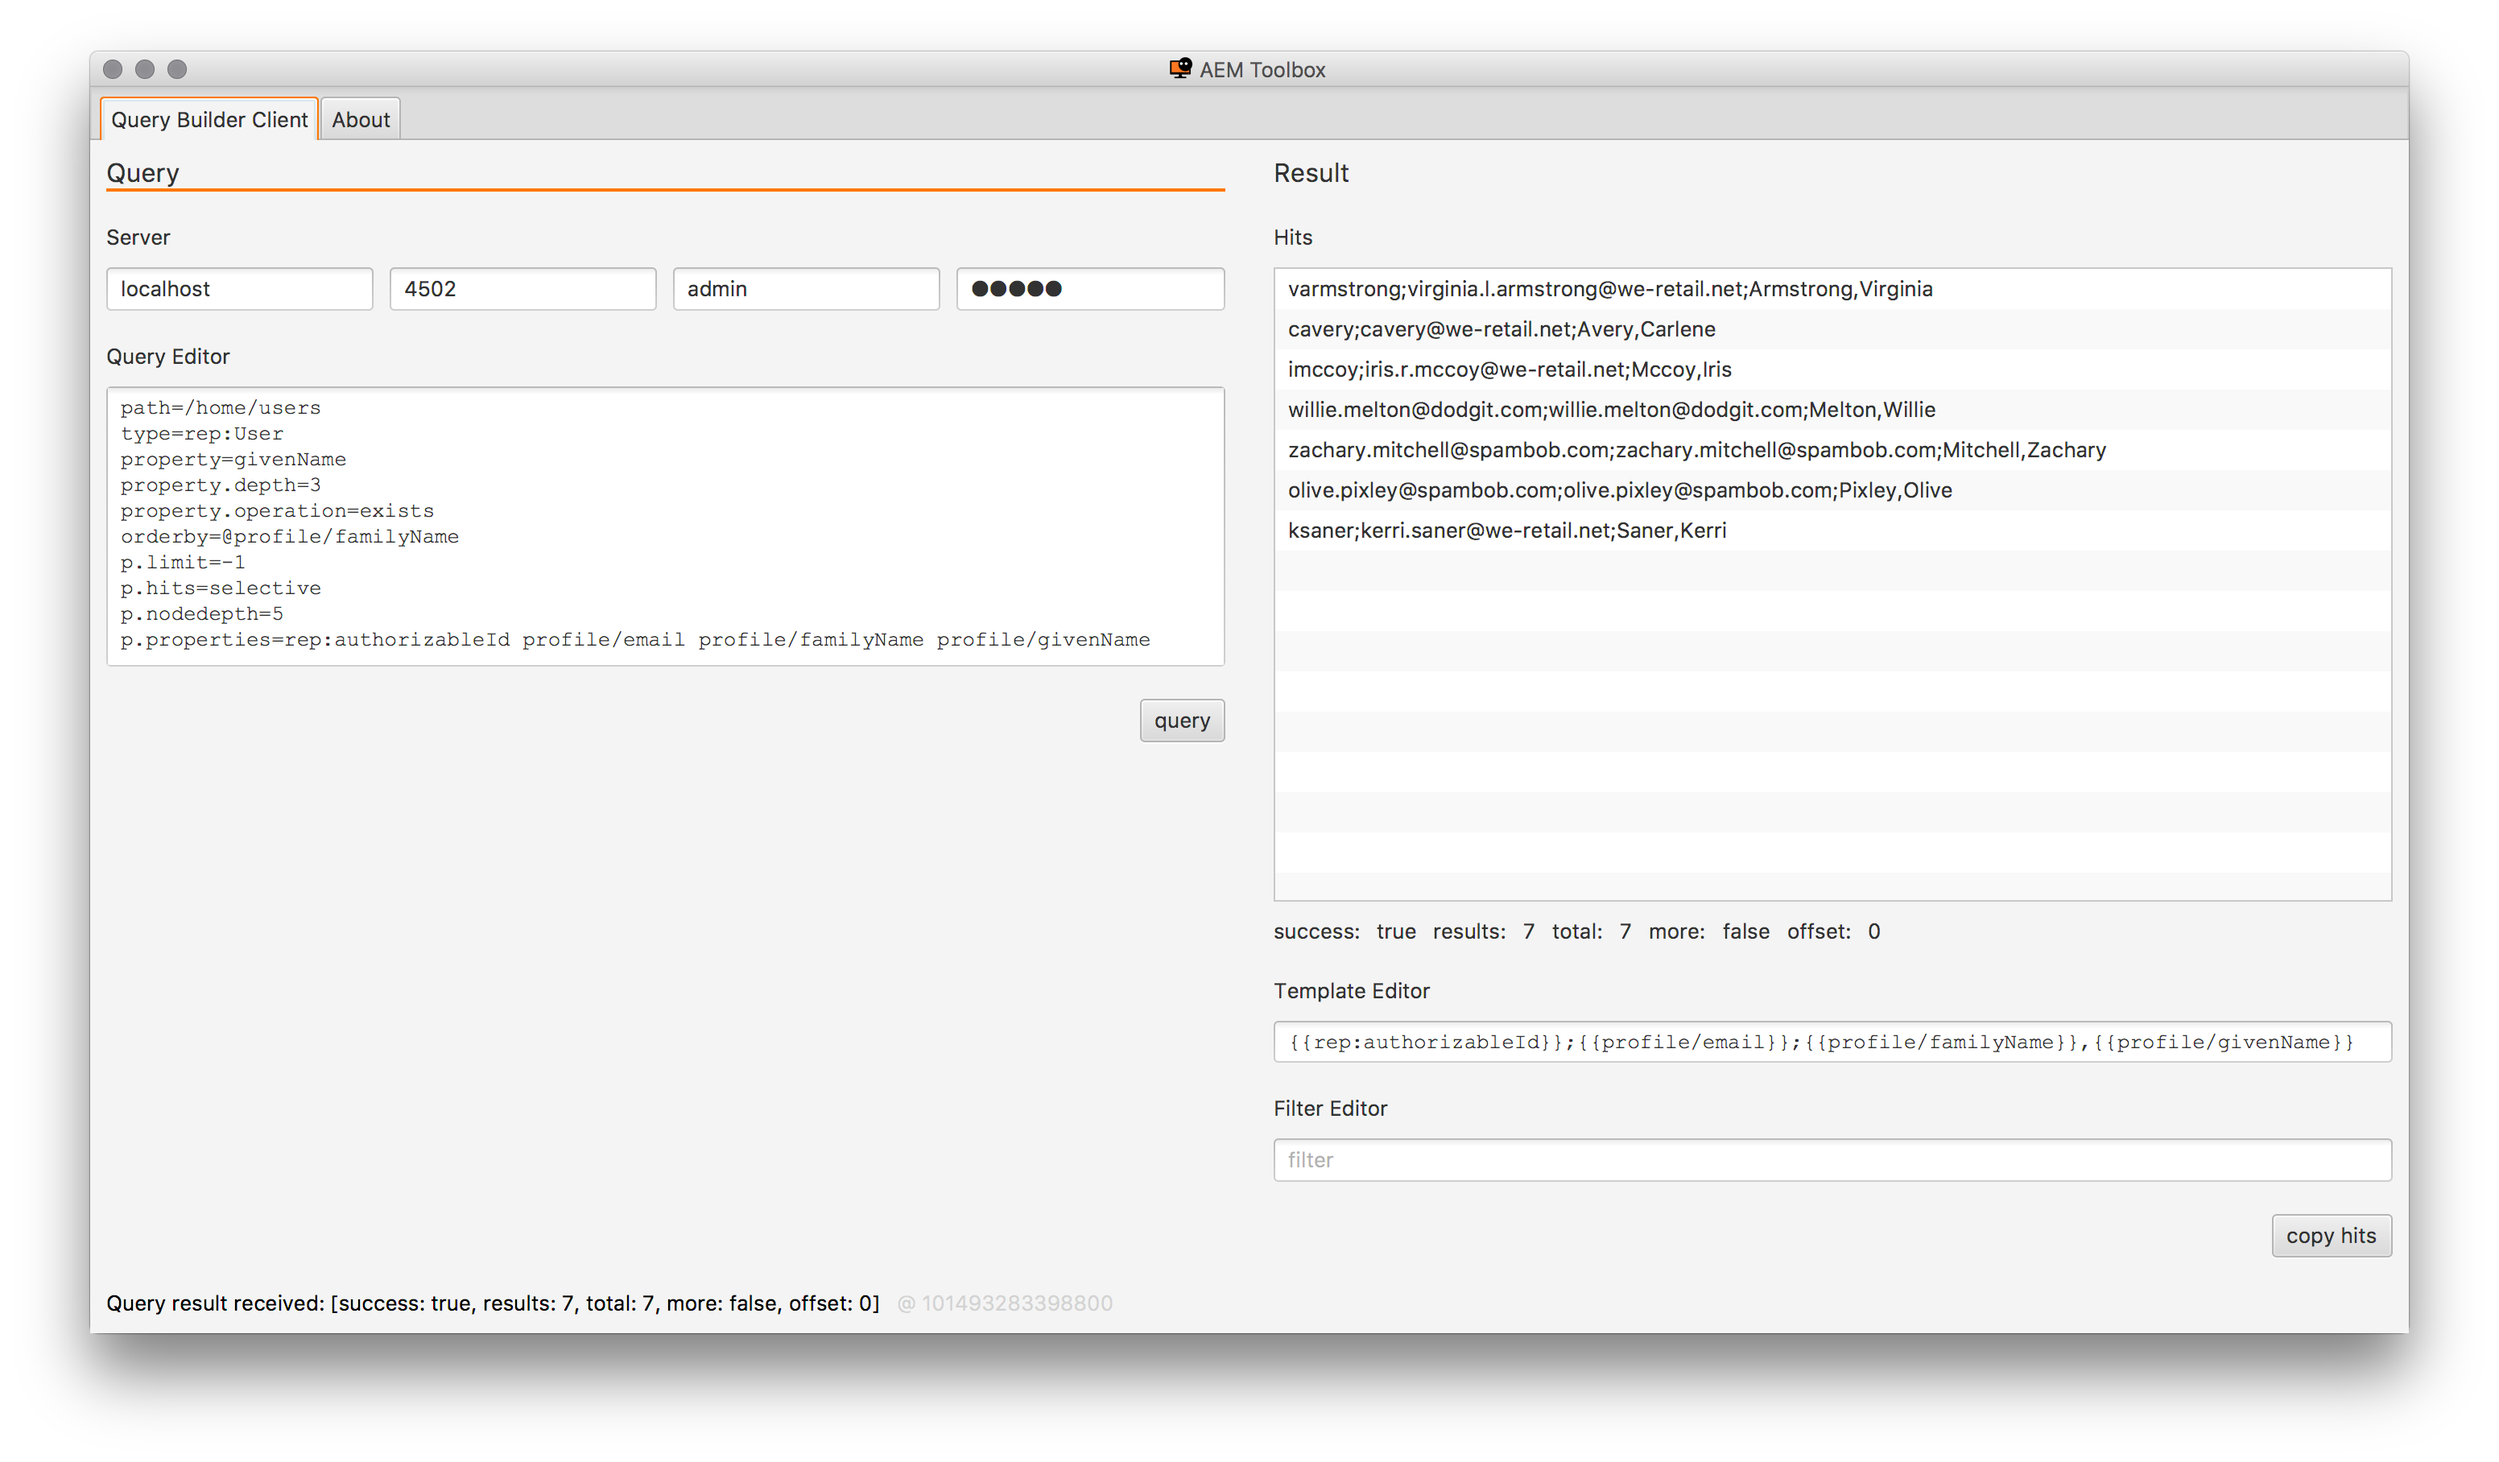
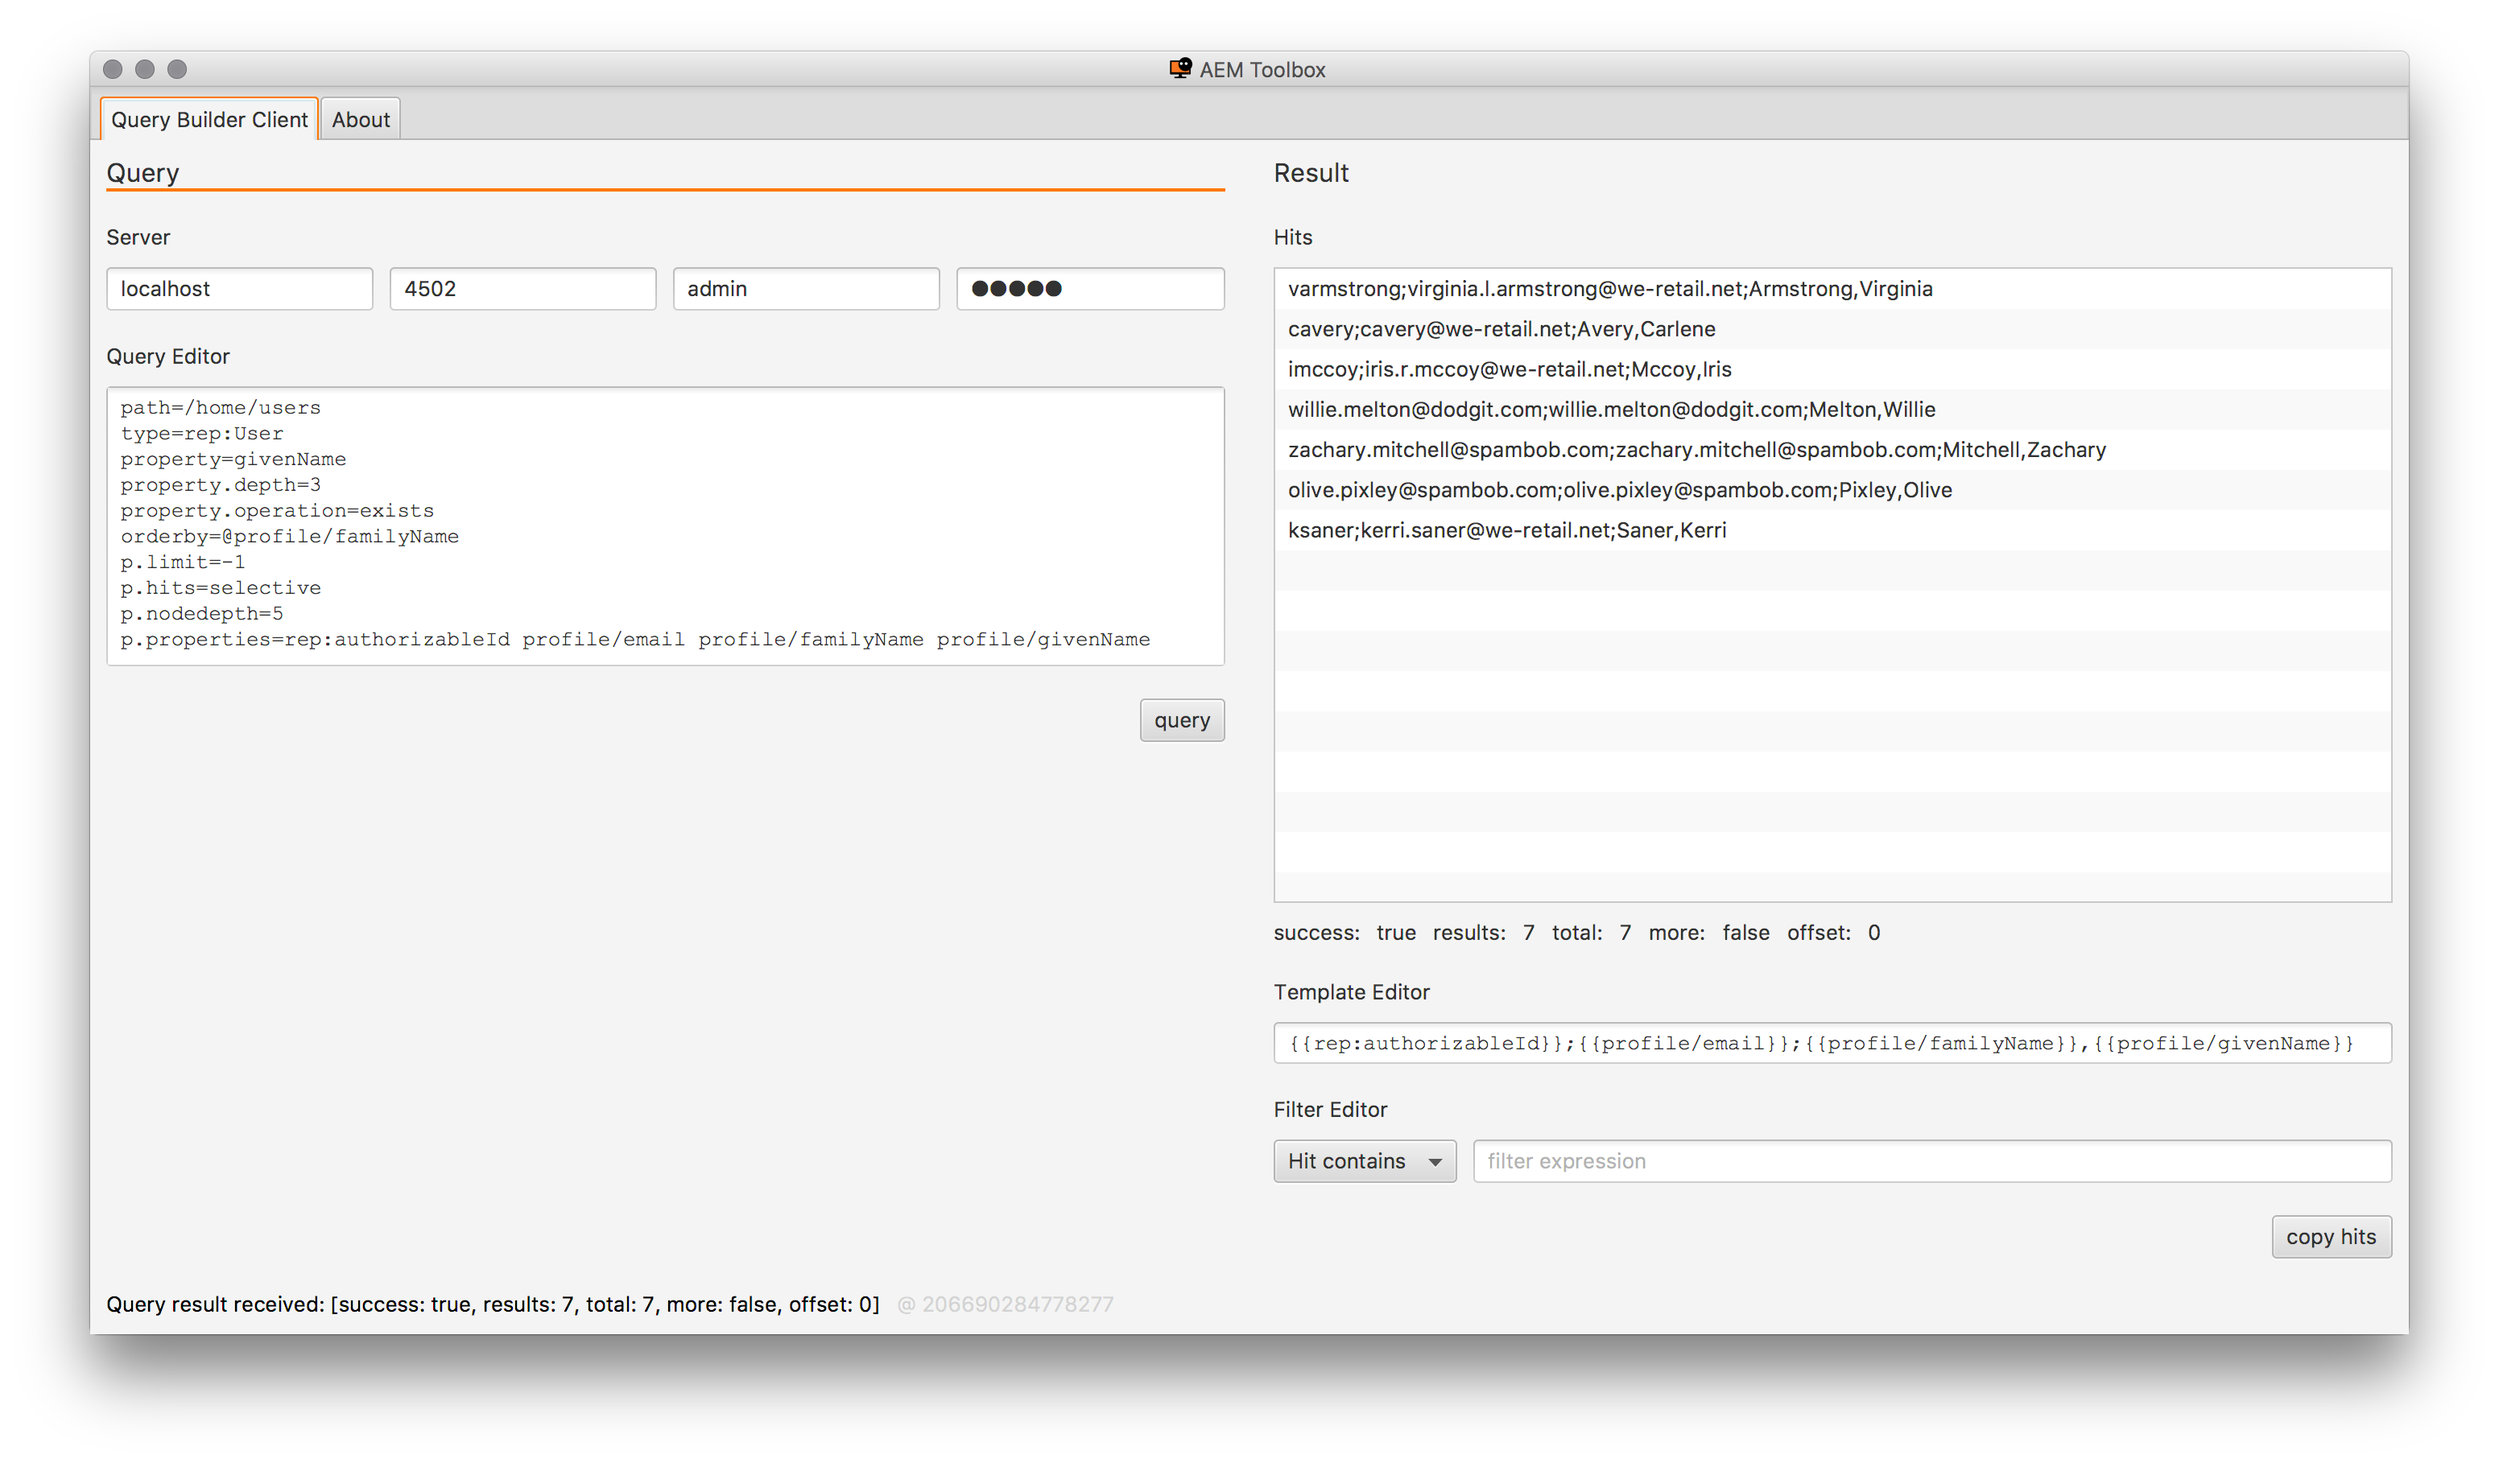
#1 Allow filtering of hits with regular expression

diff --git a/src/main/java/de/bildschirmarbeiter/aem/toolbox/application/querybuilder/ui/QuerybuilderViewModel.java b/src/main/java/de/bildschirmarbeiter/aem/toolbox/application/querybuilder/ui/QuerybuilderViewModel.java
@@ -15,8 +15,10 @@ import de.bildschirmarbeiter.aem.toolbox.application.querybuilder.message.QueryR
 import de.bildschirmarbeiter.application.message.spi.MessageService;
 import javafx.beans.property.BooleanProperty;
 import javafx.beans.property.LongProperty;
+import javafx.beans.property.ObjectProperty;
 import javafx.beans.property.SimpleBooleanProperty;
 import javafx.beans.property.SimpleLongProperty;
+import javafx.beans.property.SimpleObjectProperty;
 import javafx.beans.property.SimpleStringProperty;
 import javafx.beans.property.StringProperty;
 import javafx.beans.value.ChangeListener;
@@ -83,9 +85,15 @@ public class QuerybuilderViewModel {
 
     // filter
 
-    final StringProperty filter = new SimpleStringProperty();
+    final StringProperty filterExpression = new SimpleStringProperty();
 
-    private final ChangeListener<String> filterChangeListener = (observable, oldValue, newValue) -> filteredResult.setPredicate(string -> newValue == null || newValue.isEmpty() || string.contains(newValue));
+    private final ChangeListener<String> filterExpressionChangeListener = (observable, oldValue, newValue) -> filteredResult.setPredicate(string -> filter(string, newValue));
+
+    final ObjectProperty<FilterMode> filterMode = new SimpleObjectProperty<>(FilterMode.CONTAINS);
+
+    private final ChangeListener<FilterMode> filterModeChangeListener = (observable, oldValue, newValue) -> filteredResult.setPredicate(string -> filter(string, filterExpression.getValue()));
+
+    final ObservableList<FilterMode> filterModes = FXCollections.observableArrayList(FilterMode.CONTAINS, FilterMode.MATCHES);
 
     public QuerybuilderViewModel() {
     }
@@ -94,14 +102,16 @@ public class QuerybuilderViewModel {
     private void activate() {
         compileTemplate();
         template.addListener(templateChangeListener);
-        filter.addListener(filterChangeListener);
+        filterExpression.addListener(filterExpressionChangeListener);
+        filterMode.addListener(filterModeChangeListener);
         messageService.register(this);
     }
 
     @Deactivate
     private void deactivate() {
         template.removeListener(templateChangeListener);
-        filter.removeListener(filterChangeListener);
+        filterExpression.removeListener(filterExpressionChangeListener);
+        filterMode.removeListener(filterModeChangeListener);
         messageService.unregister(this);
     }
 
@@ -152,6 +162,38 @@ public class QuerybuilderViewModel {
         offset.setValue(0);
         hits.clear();
         result.clear();
+    }
+
+    private boolean filter(final String string, final String filterExpression) {
+        if (string == null || string.isEmpty()) {
+            return false;
+        }
+        switch (filterMode.get()) {
+            case CONTAINS:
+                return string.contains(filterExpression);
+            case MATCHES:
+                return string.matches(filterExpression);
+            default:
+                return false;
+        }
+    }
+
+    enum FilterMode {
+
+        CONTAINS("Hit contains"),
+        MATCHES("Hit matches");
+
+        private final String title;
+
+        FilterMode(final String title) {
+            this.title = title;
+        }
+
+        @Override
+        public String toString() {
+            return title;
+        }
+
     }
 
 }

diff --git a/src/main/java/de/bildschirmarbeiter/aem/toolbox/application/querybuilder/ui/FilterEditor.java b/src/main/java/de/bildschirmarbeiter/aem/toolbox/application/querybuilder/ui/FilterEditor.java
@@ -1,7 +1,11 @@
 package de.bildschirmarbeiter.aem.toolbox.application.querybuilder.ui;
 
+import de.bildschirmarbeiter.aem.toolbox.application.querybuilder.ui.QuerybuilderViewModel.FilterMode;
+import javafx.scene.control.ChoiceBox;
 import javafx.scene.control.Label;
 import javafx.scene.control.TextField;
+import javafx.scene.layout.HBox;
+import javafx.scene.layout.Priority;
 import javafx.scene.layout.VBox;
 import org.osgi.service.component.annotations.Activate;
 import org.osgi.service.component.annotations.Component;
@@ -16,28 +20,45 @@ public class FilterEditor extends VBox {
     @Reference
     private volatile QuerybuilderViewModel model;
 
-    private TextField editor;
+    private final TextField editor;
+
+    private final ChoiceBox<FilterMode> filterModes;
 
     public FilterEditor() {
         setSpacing(10);
         final Label title = new Label("Filter Editor");
+        this.filterModes = new ChoiceBox<>();
         final TextField editor = new TextField();
-        editor.setPromptText("filter");
+        editor.setPromptText("filter expression");
         this.editor = editor;
+        HBox.setHgrow(editor, Priority.ALWAYS);
+        final HBox container = new HBox();
+        container.setSpacing(10);
+        container.getChildren().addAll(
+            filterModes,
+            editor
+        );
         getChildren().addAll(
             title,
-            editor
+            container
         );
     }
 
     @Activate
     private void activate() {
-        editor.textProperty().bindBidirectional(model.filter);
+        editor.textProperty().bindBidirectional(model.filterExpression);
+        filterModes.setItems(model.filterModes);
+        filterModes.setValue(model.filterMode.getValue());
+        model.filterMode.bind(filterModes.getSelectionModel().selectedItemProperty());
+
     }
 
     @Deactivate
     private void deactivate() {
-        editor.textProperty().unbindBidirectional(model.filter);
+        editor.textProperty().unbindBidirectional(model.filterExpression);
+        filterModes.setItems(null);
+        filterModes.setValue(null);
+        model.filterMode.unbind();
     }
 
 }
